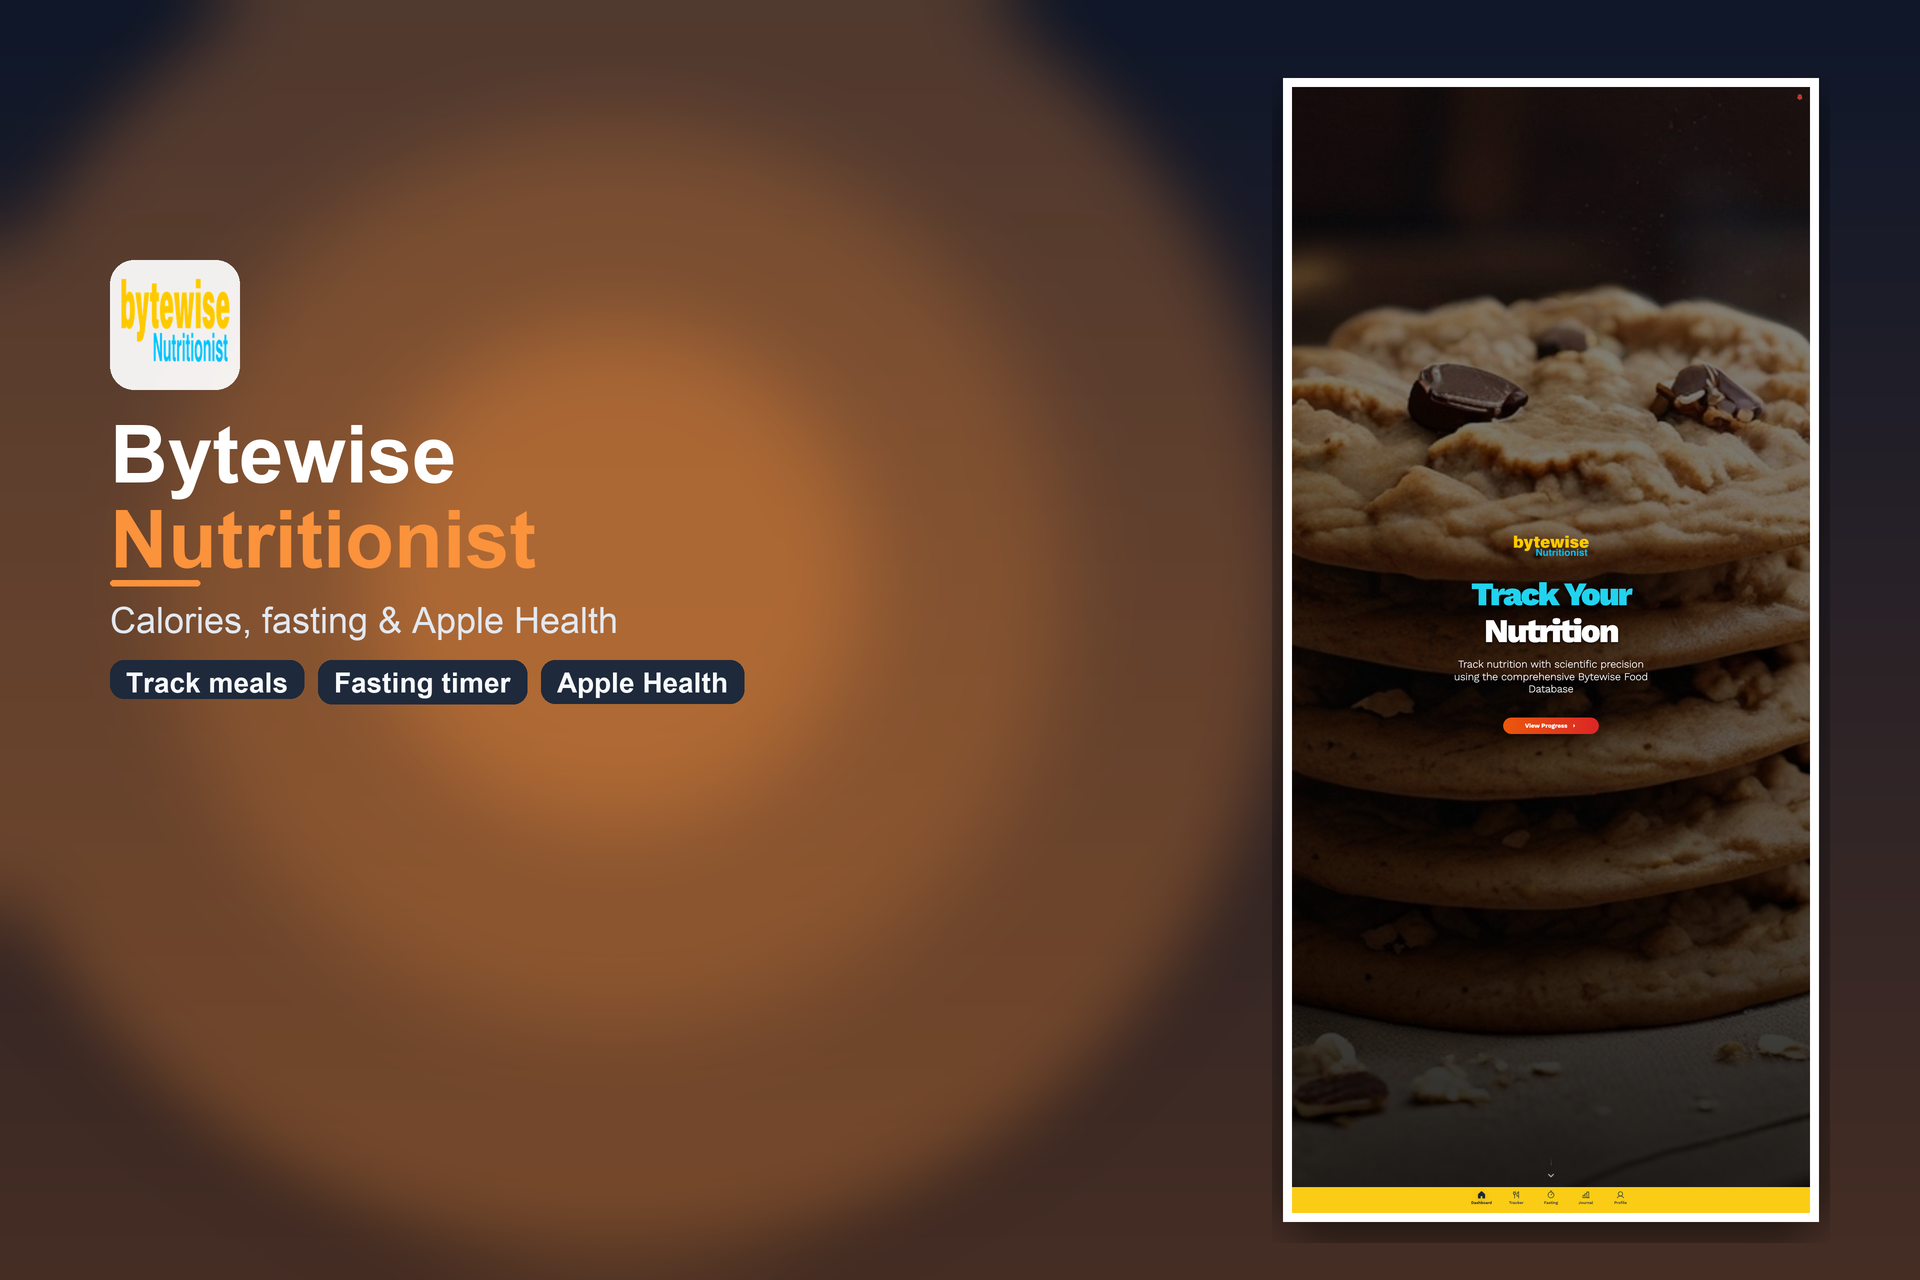
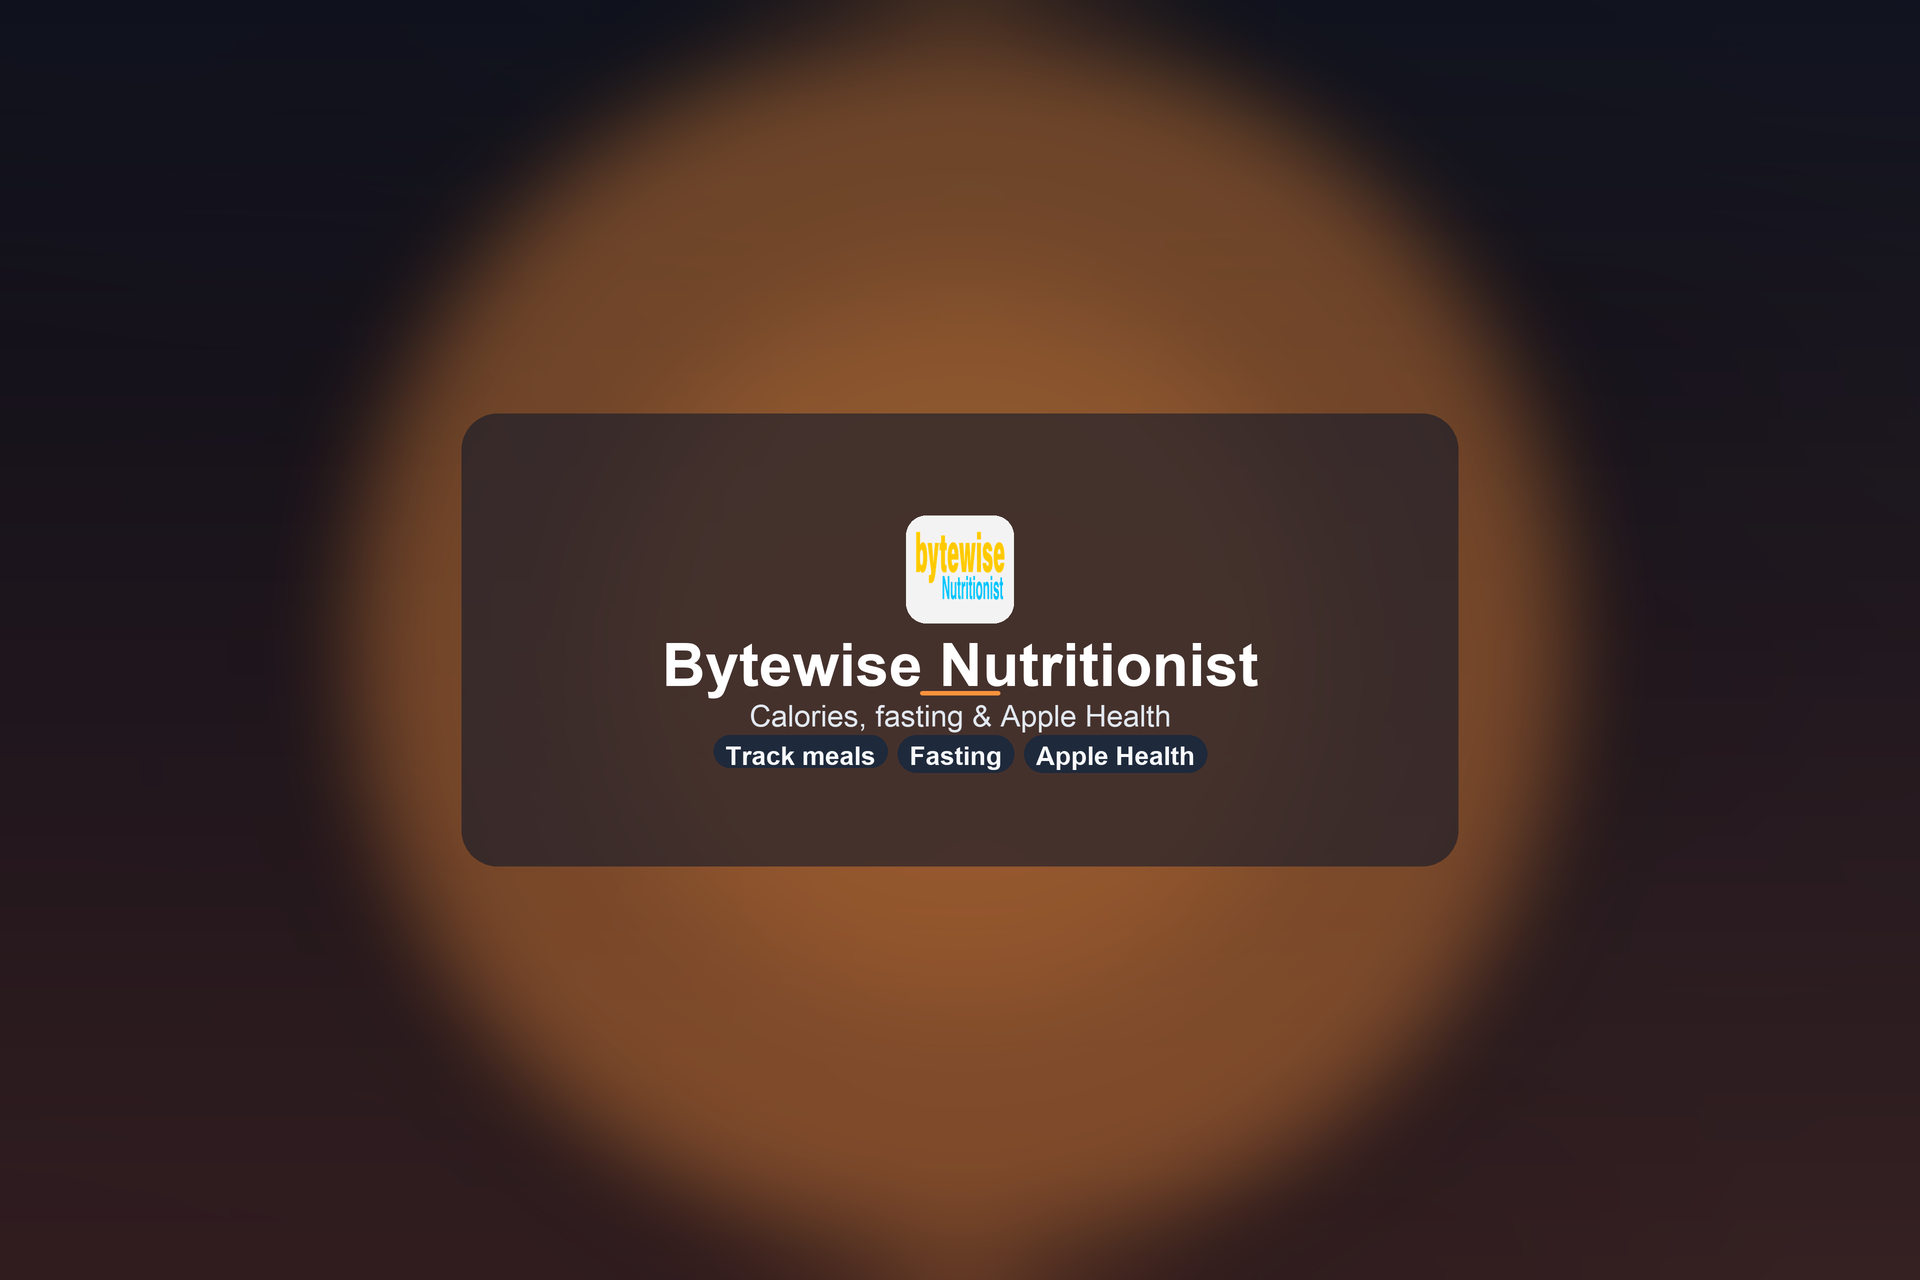
Update .gitignore and app-store-screenshots documentation for clarity and asset management
- Added .venv-img/ to .gitignore for local tooling exclusion.
- Revised README.md to clarify Header and Search Results asset usage, including specific file names and sizes.
- Enhanced app-store-product-page.md with updated guidelines for uploading assets to prevent upload errors.

diff --git a/docs/app-store-product-page.md b/docs/app-store-product-page.md
@@ -110,23 +110,32 @@ Privacy email: `privacy@bytewisenutritionist.com`
 
 These tabs are **not** for portrait phone screenshots. Uploading `01-dashboard-hero.png` (1320×2868) here fails with “File dimensions are invalid.”
 
+Apple **crops** Header / Search creatives to a small **center safe zone**. Edge-aligned logos, titles, or phone mockups get clipped in Preview (looks like “not cropped properly”). Use the regenerated center-safe files below.
+
 | Tab | Purpose | Upload this |
 |-----|---------|-------------|
-| **Search Results** | Image shown in App Store search | Landscape creative from `app-store-screenshots/search-results/` |
-| **Header** | Banner at top of product page | Same **universal** file, or a dedicated 21:9 header later |
+| **Header** | Banner at top of product page | `header-3840x1646.png` (21:9) |
+| **Search Results** | Image shown in App Store search | `search-results-3840x2560.png` (3:2) |
+| **Both (optional)** | One file for Header + Search | `search-results-universal-5244x2950.png` (16:9) |
 | **App Previews and Screenshots** | Device screenshots | Portrait PNGs from `iphone-18/` / `ipad-13/` (see below) |
-
-**Search Results — use one of:**
-
-| File | Size | Notes |
-|------|------|--------|
-| `search-results-3840x2560.png` | 3840 × 2560 (3:2) | Preferred dedicated Search Results size |
-| `search-results-1920x1280.png` | 1920 × 1280 (3:2) | Smaller alternate (also accepted) |
-| `search-results-universal-5244x2950.png` | 5244 × 2950 (16:9) | Works for **both** Header and Search Results |
 
 Path: [`app-store-screenshots/search-results/`](../app-store-screenshots/search-results/)
 
-If no Search Results asset is added, Connect falls back to your app previews/screenshots (as noted in the UI).
+| File | Size | Use |
+|------|------|-----|
+| `header-3840x1646.png` | 3840 × 1646 | **Header** tab |
+| `search-results-3840x2560.png` | 3840 × 2560 | **Search Results** tab (preferred) |
+| `search-results-1920x1280.png` | 1920 × 1280 | Search Results alternate |
+| `search-results-universal-5244x2950.png` | 5244 × 2950 | Optional single asset for both |
+
+Regenerate after brand/hero changes:
+
+```bash
+PATH="$HOME/.local/node-v22.23.3-darwin-arm64/bin:$PATH" \
+  node scripts/generate-app-store-creatives.mjs
+```
+
+Then re-upload in Connect and check **Preview** on iPhone + iPad. If no Search Results asset is added, Connect falls back to app previews/screenshots.
 
 ---
 
@@ -149,13 +158,13 @@ Use the same order for iPhone 6.9" and iPad 13":
 
 | Slot | File | What it shows |
 |------|------|----------------|
-| 1 | `01-dashboard-hero.png` | Branded hero + today’s progress |
+| 1 | `01-dashboard-hero.png` | Branded hero (optional; or use `01-dashboard.png` for more UI) |
 | 2 | `02-tracker.png` | Food tracker / calculator |
 | 3 | `03-fasting.png` | Intermittent fasting |
 | 4 | `04-journal.png` | Journal |
 | 5 | `05-profile.png` | Profile / settings |
 
-Optional alternates (same size): plain `01-dashboard.png` or other `*-hero.png` files if you prefer a different mix. Keep **slot 1** as a strong brand/hero image.
+Prefer **feature** PNGs (no `-hero`) for slots 2–5 so the carousel shows real UI, not only marketing folds. App Store further crops tall screenshots in Preview—that clipping is normal for device frames, not a bad file size.
 
 ### Connect steps
 

diff --git a/app-store-screenshots/README.md b/app-store-screenshots/README.md
@@ -6,7 +6,7 @@ Portrait PNGs sized for App Store Connect upload.
 
 **Screenshots (App Previews and Screenshots only):** `01-dashboard-hero.png` → `02-tracker.png` → `03-fasting.png` → `04-journal.png` → `05-profile.png` (same order for `iphone-18/` and `ipad-13/`).
 
-**Search Results / Header tab:** do **not** upload portrait screenshots. Use `search-results/search-results-3840x2560.png` (or `search-results-universal-5244x2950.png` for both Header + Search).
+**Header / Search Results:** do **not** upload portrait screenshots. Use center-safe creatives in `search-results/` — `header-3840x1646.png` (Header) and `search-results-3840x2560.png` (Search). Regenerate with `node scripts/generate-app-store-creatives.mjs`.
 
 | Folder | Device | Size | App Store slot |
 |---|---|---|---|
